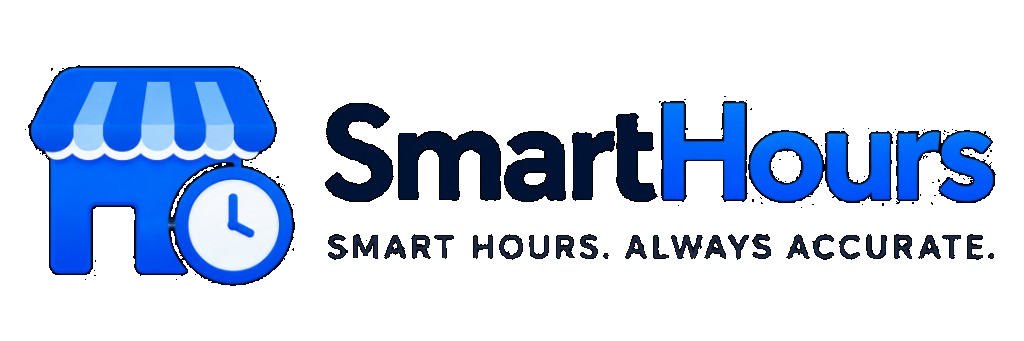
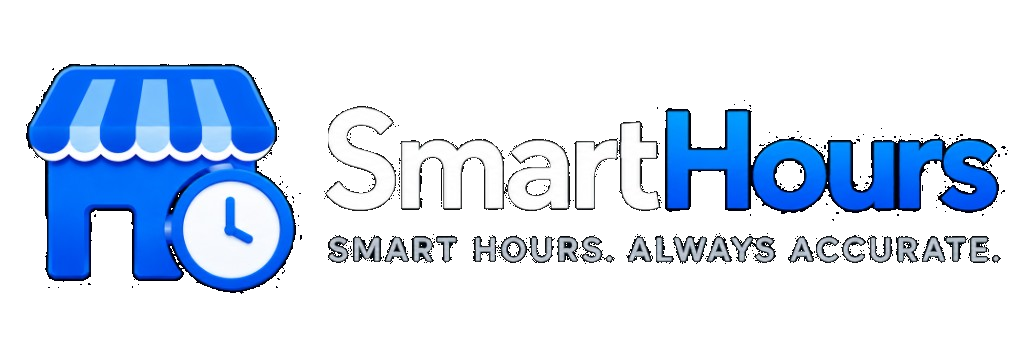
Use the high-contrast SmartHours lockup on the dark page background.

Changed region(s): [[0.0312, 0.176, 1.0, 0.8504], [0.0, 0.3519, 0.0312, 0.4106]]

diff --git a/public/smarthours.html b/public/smarthours.html
@@ -803,7 +803,7 @@
   <div id="app" class="wrap">
     <header>
       <div class="brand">
-        <img class="brand-logo" src="/SmartHours/assets/smarthours-lockup.png?v=3" width="640" height="180" alt="SmartHours" onerror="this.onerror=null;this.src='/SmartHours/assets/smarthours-logo.png?v=3'">
+        <img class="brand-logo" src="/SmartHours/assets/smarthours-lockup.png?v=4" width="640" height="180" alt="SmartHours" onerror="this.onerror=null;this.src='/SmartHours/assets/smarthours-logo.png?v=4'">
         <div class="brand-text">
           <h1 id="pageTitle">SmartHours</h1>
           <p class="sub" id="pageSub">Set up your hours display</p>
